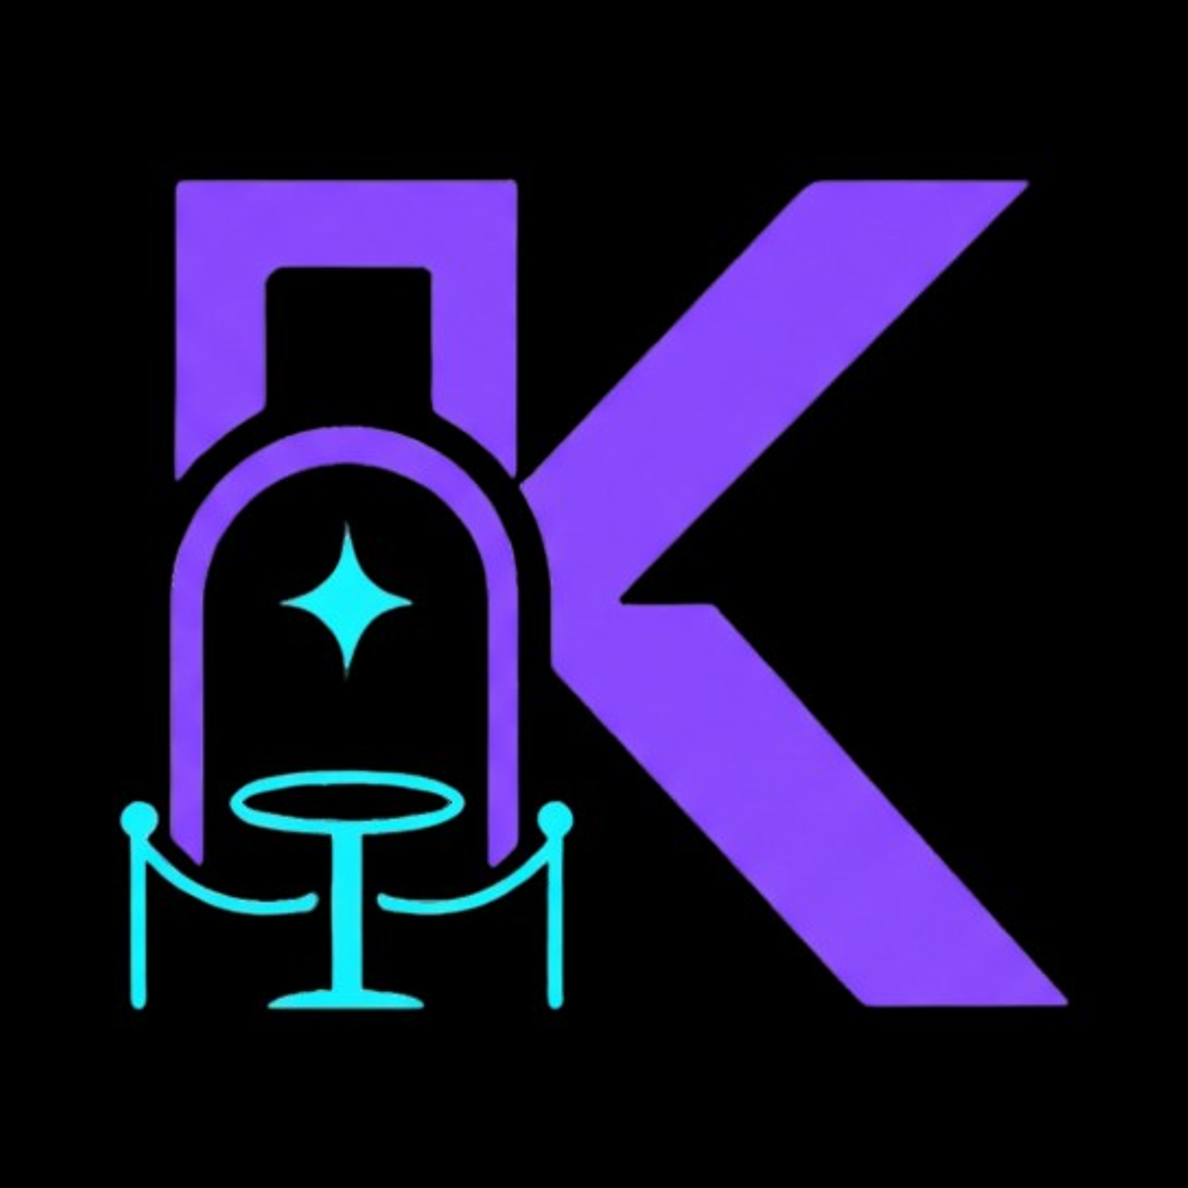
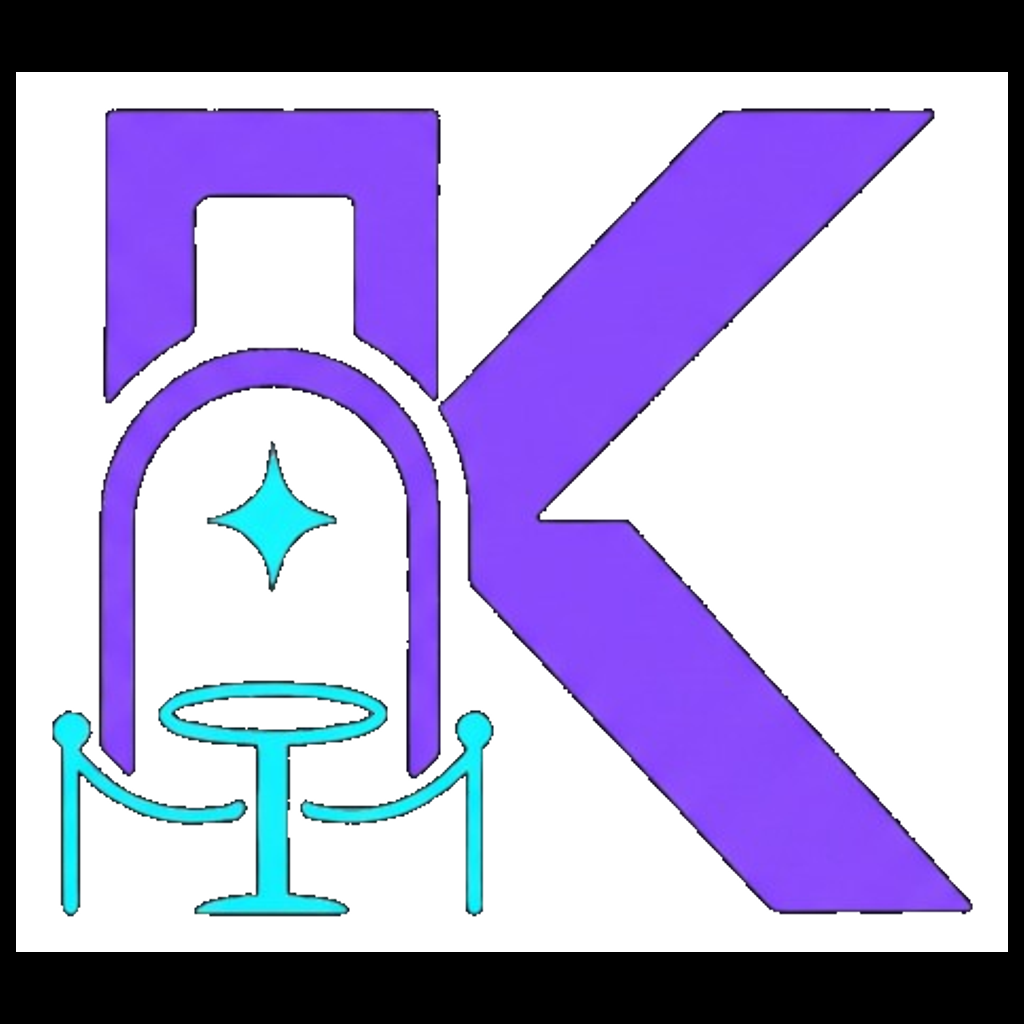
Maximizar icono launcher Android y publicar APK.

diff --git a/src/scripts/process-brand-logo.ts b/src/scripts/process-brand-logo.ts
@@ -77,18 +77,17 @@ async function main(): Promise<void> {
   console.log(`  ✓ web ${path.relative(ROOT, WEB)} (${info.width}x${info.height}, sin fondo)`);
 
   await sharp(cropped)
-    .resize(860, 860, { fit: "inside", withoutEnlargement: false })
+    .resize(992, 992, { fit: "contain", background: { r: 0, g: 0, b: 0, alpha: 1 } })
     .extend({
-      top: 82,
-      bottom: 82,
-      left: 82,
-      right: 82,
+      top: 16,
+      bottom: 16,
+      left: 16,
+      right: 16,
       background: { r: 0, g: 0, b: 0, alpha: 1 },
     })
-    .resize(1024, 1024, { fit: "contain", background: { r: 0, g: 0, b: 0, alpha: 1 } })
     .png()
     .toFile(ICON);
-  console.log(`  ✓ icon ${path.relative(ROOT, ICON)} (1024, fondo negro para launcher)`);
+  console.log(`  ✓ icon ${path.relative(ROOT, ICON)} (1024, ~97% fill, fondo negro)`);
   console.log("\n[logo] Listo. Corré: npm run icons:android && npm run cap:sync");
 }
 

diff --git a/src/scripts/generate-android-icons.ts b/src/scripts/generate-android-icons.ts
@@ -52,13 +52,13 @@ async function main(): Promise<void> {
   }
 
   for (const [folder, size] of Object.entries(LAUNCHER)) {
-    await writeIcon(folder, "ic_launcher", size, 0.06);
-    await writeIcon(folder, "ic_launcher_round", size, 0.06);
+    await writeIcon(folder, "ic_launcher", size, 0.02);
+    await writeIcon(folder, "ic_launcher_round", size, 0.02);
     console.log(`  ✓ ${folder} launcher ${size}px`);
   }
 
   for (const [folder, size] of Object.entries(FOREGROUND)) {
-    await writeIcon(folder, "ic_launcher_foreground", size, 0.17);
+    await writeIcon(folder, "ic_launcher_foreground", size, 0.06);
     console.log(`  ✓ ${folder} foreground ${size}px`);
   }
 
